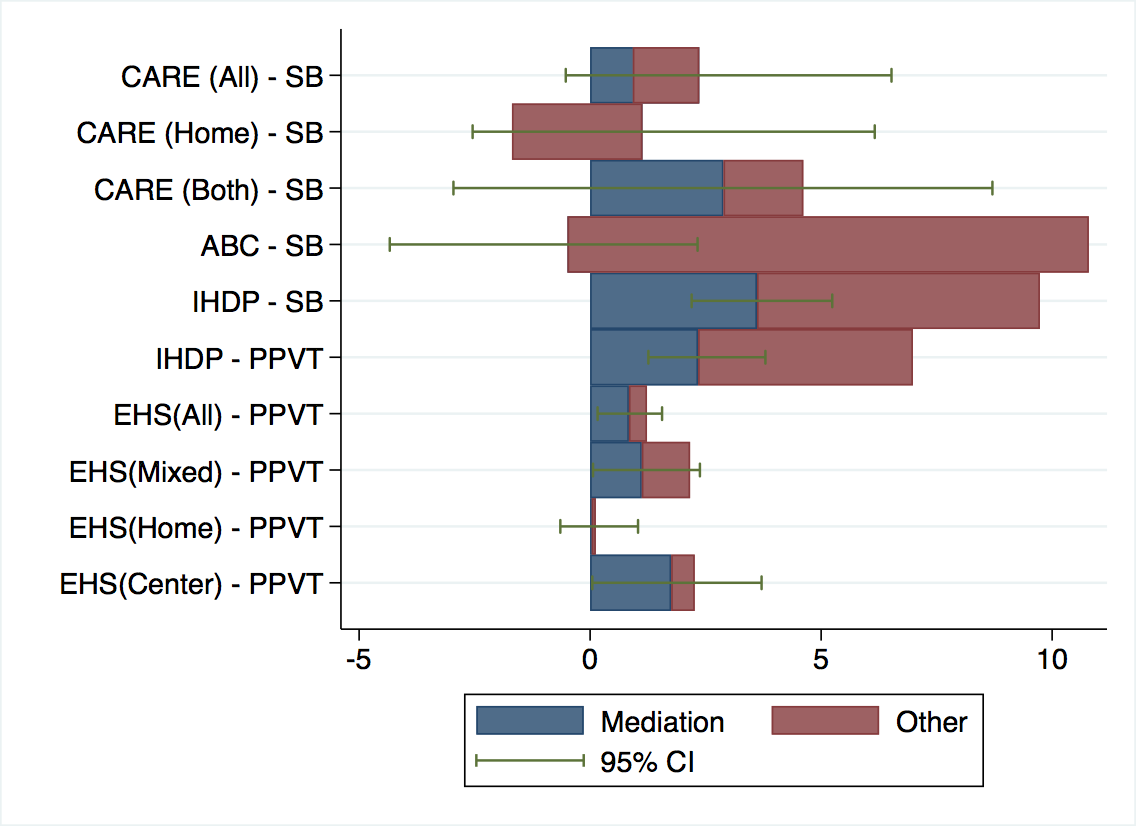
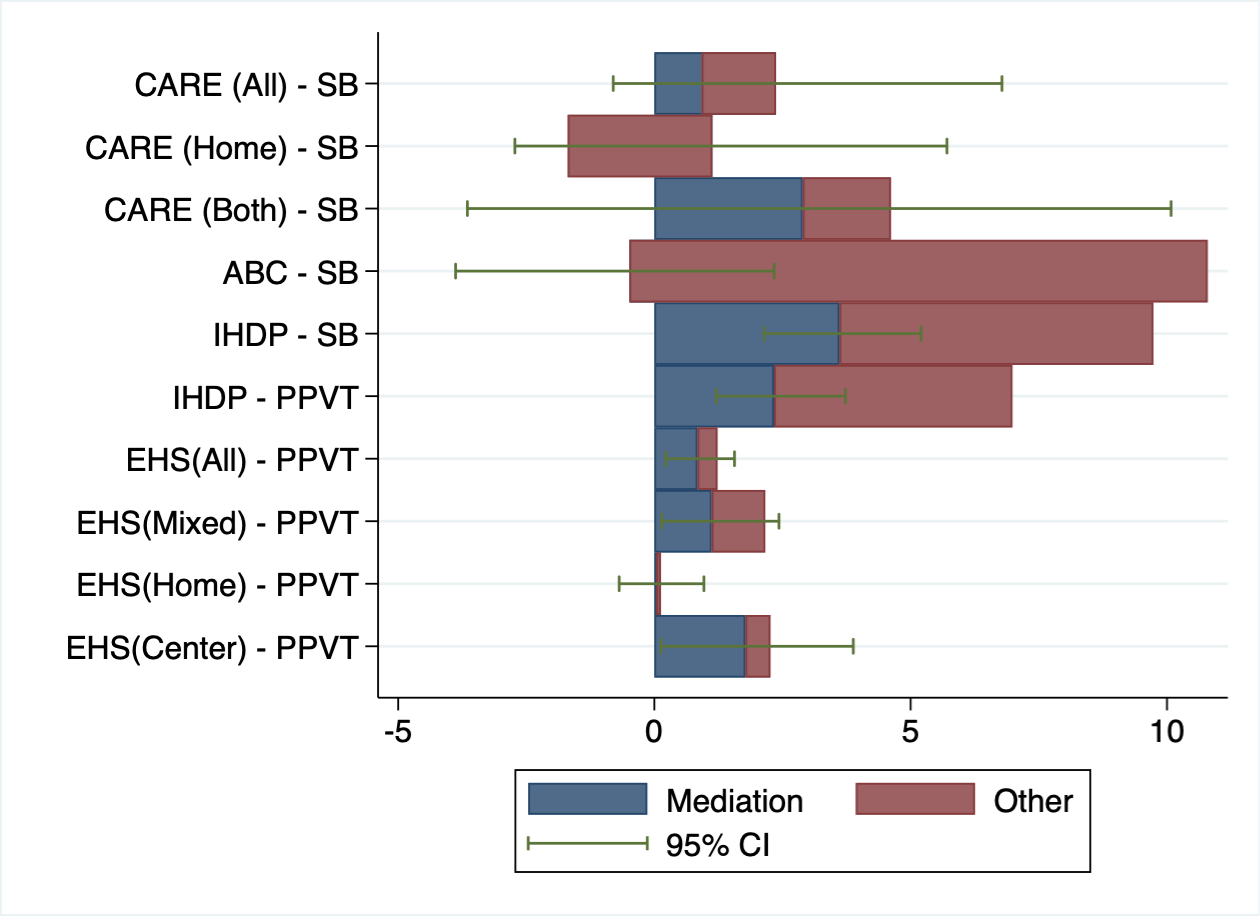
mediation AH update (need review)

diff --git a/out/mediation/ehs-interaction-ppvt.tex b/out/mediation/ehs-interaction-ppvt.tex
@@ -1,0 +1,15 @@
+\begin{tabular}{lcccccccccccc}
+\hline \noalign{\smallskip} & ehs\_ppvtrandom\_3coeff & ehs\_ppvtparenting\_3coeff & ehs\_ppvtinteraction\_3coeff & ehscenter\_ppvtrandom\_3coeff & ehscenter\_ppvtparenting\_3coeff & ehscenter\_ppvtinteraction\_3coeff & ehshome\_ppvtrandom\_3coeff & ehshome\_ppvtparenting\_3coeff & ehshome\_ppvtinteraction\_3coeff & ehsmixed\_ppvtrandom\_3coeff & ehsmixed\_ppvtparenting\_3coeff & ehsmixed\_ppvtinteraction\_3coeff\\
+\noalign{\smallskip}\hline \noalign{\smallskip}Total\_Score & 1.396* & 3.265*** & -0.554 & 2.019 & 2.338* & -0.444 & 0.716 & 4.549*** & -1.207 & 2.223 & 2.793** & 0.213\\
+ & \begin{footnotesize}(0.811)\end{footnotesize} & \begin{footnotesize}(0.622)\end{footnotesize} & \begin{footnotesize}(0.842)\end{footnotesize} & \begin{footnotesize}(1.550)\end{footnotesize} & \begin{footnotesize}(1.299)\end{footnotesize} & \begin{footnotesize}(1.655)\end{footnotesize} & \begin{footnotesize}(1.189)\end{footnotesize} & \begin{footnotesize}(0.929)\end{footnotesize} & \begin{footnotesize}(1.260)\end{footnotesize} & \begin{footnotesize}(1.573)\end{footnotesize} & \begin{footnotesize}(1.121)\end{footnotesize} & \begin{footnotesize}(1.584)\end{footnotesize}\\
+\noalign{\smallskip}Learning\_Stimulation & 1.578* & 2.845*** & -1.153 & 2.088 & 2.837** & -1.623 & 1.050 & 2.961*** & -1.422 & 2.284 & 2.769** & -0.153\\
+ & \begin{footnotesize}(0.817)\end{footnotesize} & \begin{footnotesize}(0.648)\end{footnotesize} & \begin{footnotesize}(0.880)\end{footnotesize} & \begin{footnotesize}(1.549)\end{footnotesize} & \begin{footnotesize}(1.243)\end{footnotesize} & \begin{footnotesize}(1.640)\end{footnotesize} & \begin{footnotesize}(1.221)\end{footnotesize} & \begin{footnotesize}(1.005)\end{footnotesize} & \begin{footnotesize}(1.369)\end{footnotesize} & \begin{footnotesize}(1.576)\end{footnotesize} & \begin{footnotesize}(1.187)\end{footnotesize} & \begin{footnotesize}(1.659)\end{footnotesize}\\
+\noalign{\smallskip}Development\_Materials & 1.537* & 2.133*** & -1.152 & 2.283 & 0.820 & -1.392 & 0.730 & 2.364** & -0.301 & 2.413 & 2.929** & -1.751\\
+ & \begin{footnotesize}(0.819)\end{footnotesize} & \begin{footnotesize}(0.623)\end{footnotesize} & \begin{footnotesize}(0.847)\end{footnotesize} & \begin{footnotesize}(1.572)\end{footnotesize} & \begin{footnotesize}(1.179)\end{footnotesize} & \begin{footnotesize}(1.550)\end{footnotesize} & \begin{footnotesize}(1.215)\end{footnotesize} & \begin{footnotesize}(0.948)\end{footnotesize} & \begin{footnotesize}(1.287)\end{footnotesize} & \begin{footnotesize}(1.588)\end{footnotesize} & \begin{footnotesize}(1.223)\end{footnotesize} & \begin{footnotesize}(1.710)\end{footnotesize}\\
+\noalign{\smallskip}Opportunities\_for\_Variety & 1.705** & 1.478** & -0.630 & 2.312 & 0.321 & -0.273 & 1.024 & 2.731*** & -0.790 & 2.470 & 1.048 & -0.533\\
+ & \begin{footnotesize}(0.818)\end{footnotesize} & \begin{footnotesize}(0.597)\end{footnotesize} & \begin{footnotesize}(0.822)\end{footnotesize} & \begin{footnotesize}(1.556)\end{footnotesize} & \begin{footnotesize}(1.223)\end{footnotesize} & \begin{footnotesize}(1.595)\end{footnotesize} & \begin{footnotesize}(1.208)\end{footnotesize} & \begin{footnotesize}(0.882)\end{footnotesize} & \begin{footnotesize}(1.237)\end{footnotesize} & \begin{footnotesize}(1.588)\end{footnotesize} & \begin{footnotesize}(1.097)\end{footnotesize} & \begin{footnotesize}(1.538)\end{footnotesize}\\
+\noalign{\smallskip}Lack\_of\_Hostility & 1.477* & 2.201*** & 0.172 & 2.009 & 1.395 & 2.396 & 0.526 & 3.073*** & -1.238 & 2.462 & 1.622 & -0.292\\
+ & \begin{footnotesize}(0.813)\end{footnotesize} & \begin{footnotesize}(0.734)\end{footnotesize} & \begin{footnotesize}(0.987)\end{footnotesize} & \begin{footnotesize}(1.538)\end{footnotesize} & \begin{footnotesize}(1.650)\end{footnotesize} & \begin{footnotesize}(1.988)\end{footnotesize} & \begin{footnotesize}(1.208)\end{footnotesize} & \begin{footnotesize}(0.997)\end{footnotesize} & \begin{footnotesize}(1.374)\end{footnotesize} & \begin{footnotesize}(1.591)\end{footnotesize} & \begin{footnotesize}(1.394)\end{footnotesize} & \begin{footnotesize}(2.042)\end{footnotesize}\\
+\noalign{\smallskip}Parental\_Warmth & 1.551* & 1.526** & 0.716 & 2.249 & 0.162 & 1.016 & 0.664 & 3.370*** & -0.487 & 2.390 & 1.106 & 1.632\\
+ & \begin{footnotesize}(0.813)\end{footnotesize} & \begin{footnotesize}(0.624)\end{footnotesize} & \begin{footnotesize}(0.854)\end{footnotesize} & \begin{footnotesize}(1.549)\end{footnotesize} & \begin{footnotesize}(1.232)\end{footnotesize} & \begin{footnotesize}(1.620)\end{footnotesize} & \begin{footnotesize}(1.190)\end{footnotesize} & \begin{footnotesize}(0.864)\end{footnotesize} & \begin{footnotesize}(1.181)\end{footnotesize} & \begin{footnotesize}(1.581)\end{footnotesize} & \begin{footnotesize}(1.236)\end{footnotesize} & \begin{footnotesize}(1.742)\end{footnotesize}\\
+\noalign{\smallskip}\hline\end{tabular}\\

diff --git a/out/mediation/interaction.tex b/out/mediation/interaction.tex
@@ -1,23 +1,23 @@
 \begin{tabular}{lccc}
-\hline \noalign{\smallskip} & theta & R & theta_R\\
-\noalign{\smallskip}\hline \noalign{\smallskip}EHS(Center) - PPVT & 7.557** & 43.009 & 4.350\\
- & \begin{footnotesize}(3.004)\end{footnotesize} & \begin{footnotesize}(46.764)\end{footnotesize} & \begin{footnotesize}(5.707)\end{footnotesize}\\
-\noalign{\smallskip}EHS(Home) - PPVT & 6.473* & -36.378 & 1.058\\
- & \begin{footnotesize}(3.525)\end{footnotesize} & \begin{footnotesize}(28.989)\end{footnotesize} & \begin{footnotesize}(5.361)\end{footnotesize}\\
-\noalign{\smallskip}EHS(Mixed) - PPVT & 8.041*** & -8.597 & -1.121\\
- & \begin{footnotesize}(2.575)\end{footnotesize} & \begin{footnotesize}(37.440)\end{footnotesize} & \begin{footnotesize}(3.401)\end{footnotesize}\\
-\noalign{\smallskip}EHS(All) - PPVT & 7.385*** & 0.114 & 1.796\\
- & \begin{footnotesize}(1.716)\end{footnotesize} & \begin{footnotesize}(21.946)\end{footnotesize} & \begin{footnotesize}(2.713)\end{footnotesize}\\
+\hline \noalign{\smallskip} & theta & R & theta\_R\\
+\noalign{\smallskip}\hline \noalign{\smallskip}EHS(Center) - PPVT & 7.634** & 43.100 & 4.164\\
+ & \begin{footnotesize}(3.016)\end{footnotesize} & \begin{footnotesize}(46.687)\end{footnotesize} & \begin{footnotesize}(5.656)\end{footnotesize}\\
+\noalign{\smallskip}EHS(Home) - PPVT & 6.524* & -36.507 & 1.060\\
+ & \begin{footnotesize}(3.560)\end{footnotesize} & \begin{footnotesize}(29.004)\end{footnotesize} & \begin{footnotesize}(5.426)\end{footnotesize}\\
+\noalign{\smallskip}EHS(Mixed) - PPVT & 8.040*** & -8.582 & -1.140\\
+ & \begin{footnotesize}(2.589)\end{footnotesize} & \begin{footnotesize}(37.462)\end{footnotesize} & \begin{footnotesize}(3.408)\end{footnotesize}\\
+\noalign{\smallskip}EHS(All) - PPVT & 7.390*** & 0.307 & 1.799\\
+ & \begin{footnotesize}(1.716)\end{footnotesize} & \begin{footnotesize}(21.943)\end{footnotesize} & \begin{footnotesize}(2.715)\end{footnotesize}\\
 \noalign{\smallskip}IHDP - PPVT & 10.013*** & -25.513 & -5.061\\
  & \begin{footnotesize}(2.556)\end{footnotesize} & \begin{footnotesize}(16.264)\end{footnotesize} & \begin{footnotesize}(3.102)\end{footnotesize}\\
 \noalign{\smallskip}IHDP - SB & 10.921*** & -20.358 & 0.926\\
  & \begin{footnotesize}(2.022)\end{footnotesize} & \begin{footnotesize}(17.291)\end{footnotesize} & \begin{footnotesize}(3.117)\end{footnotesize}\\
-\noalign{\smallskip}ABC - SB & 3.232 & 38.759 & 7.447*\\
- & \begin{footnotesize}(2.464)\end{footnotesize} & \begin{footnotesize}(38.772)\end{footnotesize} & \begin{footnotesize}(3.994)\end{footnotesize}\\
-\noalign{\smallskip}CARE (Both) - SB & 4.409* & -14.226 & -6.218\\
- & \begin{footnotesize}(2.500)\end{footnotesize} & \begin{footnotesize}(103.926)\end{footnotesize} & \begin{footnotesize}(4.094)\end{footnotesize}\\
-\noalign{\smallskip}CARE (Home) - SB & 4.504* & 55.953 & -0.084\\
- & \begin{footnotesize}(2.609)\end{footnotesize} & \begin{footnotesize}(110.099)\end{footnotesize} & \begin{footnotesize}(3.310)\end{footnotesize}\\
-\noalign{\smallskip}CARE (All) - SB & 4.301* & 27.940 & 2.604\\
- & \begin{footnotesize}(2.590)\end{footnotesize} & \begin{footnotesize}(102.798)\end{footnotesize} & \begin{footnotesize}(3.485)\end{footnotesize}\\
+\noalign{\smallskip}ABC - SB & 3.179 & 39.080 & 7.505*\\
+ & \begin{footnotesize}(2.481)\end{footnotesize} & \begin{footnotesize}(38.798)\end{footnotesize} & \begin{footnotesize}(4.012)\end{footnotesize}\\
+\noalign{\smallskip}CARE (Both) - SB & 4.375* & -15.084 & -6.241\\
+ & \begin{footnotesize}(2.487)\end{footnotesize} & \begin{footnotesize}(103.795)\end{footnotesize} & \begin{footnotesize}(4.081)\end{footnotesize}\\
+\noalign{\smallskip}CARE (Home) - SB & 4.453* & 55.109 & -0.026\\
+ & \begin{footnotesize}(2.599)\end{footnotesize} & \begin{footnotesize}(110.068)\end{footnotesize} & \begin{footnotesize}(3.305)\end{footnotesize}\\
+\noalign{\smallskip}CARE (All) - SB & 4.319* & 28.313 & 2.627\\
+ & \begin{footnotesize}(2.593)\end{footnotesize} & \begin{footnotesize}(102.796)\end{footnotesize} & \begin{footnotesize}(3.493)\end{footnotesize}\\
 \noalign{\smallskip}\hline\end{tabular}\\

diff --git a/out/mediation/ihdp-interaction-ppvt.tex b/out/mediation/ihdp-interaction-ppvt.tex
@@ -1,0 +1,15 @@
+\begin{tabular}{lccccccccc}
+\hline \noalign{\smallskip} & ihdp\_ppvtrandom\_3coeff & ihdp\_ppvtparenting\_3coeff & ihdp\_ppvtinteraction\_3coeff & ihdphigh\_ppvtrandom\_3coeff & ihdphigh\_ppvtparenting\_3coeff & ihdphigh\_ppvtinteraction\_3coeff & ihdplow\_ppvtrandom\_3coeff & ihdplow\_ppvtparenting\_3coeff & ihdplow\_ppvtinteraction\_3coeff\\
+\noalign{\smallskip}\hline \noalign{\smallskip}Total\_Score & 6.285*** & 5.778*** & -2.091* & 9.448*** & 5.422*** & -2.425 & 4.464*** & 6.023*** & -1.964\\
+ & \begin{footnotesize}(1.026)\end{footnotesize} & \begin{footnotesize}(0.790)\end{footnotesize} & \begin{footnotesize}(1.074)\end{footnotesize} & \begin{footnotesize}(1.673)\end{footnotesize} & \begin{footnotesize}(1.241)\end{footnotesize} & \begin{footnotesize}(1.707)\end{footnotesize} & \begin{footnotesize}(1.318)\end{footnotesize} & \begin{footnotesize}(1.031)\end{footnotesize} & \begin{footnotesize}(1.386)\end{footnotesize}\\
+\noalign{\smallskip}Learning\_Stimulation & 6.665*** & 4.040*** & -1.357 & 9.644*** & 2.793** & -0.572 & 5.000*** & 4.769*** & -1.985\\
+ & \begin{footnotesize}(1.037)\end{footnotesize} & \begin{footnotesize}(0.763)\end{footnotesize} & \begin{footnotesize}(1.103)\end{footnotesize} & \begin{footnotesize}(1.711)\end{footnotesize} & \begin{footnotesize}(1.298)\end{footnotesize} & \begin{footnotesize}(1.806)\end{footnotesize} & \begin{footnotesize}(1.323)\end{footnotesize} & \begin{footnotesize}(0.947)\end{footnotesize} & \begin{footnotesize}(1.401)\end{footnotesize}\\
+\noalign{\smallskip}Development\_Materials & 6.347*** & 5.843*** & -2.020* & 9.357*** & 6.213*** & -2.262 & 4.629*** & 5.589*** & -1.899\\
+ & \begin{footnotesize}(1.017)\end{footnotesize} & \begin{footnotesize}(0.750)\end{footnotesize} & \begin{footnotesize}(1.058)\end{footnotesize} & \begin{footnotesize}(1.632)\end{footnotesize} & \begin{footnotesize}(1.143)\end{footnotesize} & \begin{footnotesize}(1.693)\end{footnotesize} & \begin{footnotesize}(1.319)\end{footnotesize} & \begin{footnotesize}(0.998)\end{footnotesize} & \begin{footnotesize}(1.360)\end{footnotesize}\\
+\noalign{\smallskip}Opportunities\_for\_Variety & 6.894*** & 3.581*** & -0.932 & 10.169*** & 3.507*** & -1.562 & 5.072*** & 3.881*** & -0.870\\
+ & \begin{footnotesize}(1.030)\end{footnotesize} & \begin{footnotesize}(0.753)\end{footnotesize} & \begin{footnotesize}(1.063)\end{footnotesize} & \begin{footnotesize}(1.688)\end{footnotesize} & \begin{footnotesize}(1.091)\end{footnotesize} & \begin{footnotesize}(1.709)\end{footnotesize} & \begin{footnotesize}(1.327)\end{footnotesize} & \begin{footnotesize}(1.058)\end{footnotesize} & \begin{footnotesize}(1.398)\end{footnotesize}\\
+\noalign{\smallskip}Lack\_of\_Hostility & 7.142*** & 2.010*** & -2.305** & 10.216*** & 2.576** & -3.446* & 5.372*** & 1.585* & -1.674\\
+ & \begin{footnotesize}(1.047)\end{footnotesize} & \begin{footnotesize}(0.713)\end{footnotesize} & \begin{footnotesize}(1.074)\end{footnotesize} & \begin{footnotesize}(1.681)\end{footnotesize} & \begin{footnotesize}(1.124)\end{footnotesize} & \begin{footnotesize}(1.836)\end{footnotesize} & \begin{footnotesize}(1.359)\end{footnotesize} & \begin{footnotesize}(0.941)\end{footnotesize} & \begin{footnotesize}(1.346)\end{footnotesize}\\
+\noalign{\smallskip}Parental\_Warmth & 7.281*** & 1.025 & -0.165 & 10.335*** & 1.040 & -0.735 & 5.457*** & 0.870 & 0.501\\
+ & \begin{footnotesize}(1.041)\end{footnotesize} & \begin{footnotesize}(0.723)\end{footnotesize} & \begin{footnotesize}(1.063)\end{footnotesize} & \begin{footnotesize}(1.680)\end{footnotesize} & \begin{footnotesize}(1.119)\end{footnotesize} & \begin{footnotesize}(1.621)\end{footnotesize} & \begin{footnotesize}(1.347)\end{footnotesize} & \begin{footnotesize}(0.956)\end{footnotesize} & \begin{footnotesize}(1.419)\end{footnotesize}\\
+\noalign{\smallskip}\hline\end{tabular}\\

diff --git a/out/mediation/ihdp-interaction-sb.tex b/out/mediation/ihdp-interaction-sb.tex
@@ -1,0 +1,15 @@
+\begin{tabular}{lccccccccc}
+\hline \noalign{\smallskip} & ihdp\_sbrandom\_3coeff & ihdp\_sbparenting\_3coeff & ihdp\_sbinteraction\_3coeff & ihdphigh\_sbrandom\_3coeff & ihdphigh\_sbparenting\_3coeff & ihdphigh\_sbinteraction\_3coeff & ihdplow\_sbrandom\_3coeff & ihdplow\_sbparenting\_3coeff & ihdplow\_sbinteraction\_3coeff\\
+\noalign{\smallskip}\hline \noalign{\smallskip}Total\_Score & 8.221*** & 8.325*** & -1.866* & 11.778*** & 7.546*** & -1.137 & 6.074*** & 8.941*** & -2.508*\\
+ & \begin{footnotesize}(1.042)\end{footnotesize} & \begin{footnotesize}(0.755)\end{footnotesize} & \begin{footnotesize}(1.052)\end{footnotesize} & \begin{footnotesize}(1.688)\end{footnotesize} & \begin{footnotesize}(1.173)\end{footnotesize} & \begin{footnotesize}(1.669)\end{footnotesize} & \begin{footnotesize}(1.327)\end{footnotesize} & \begin{footnotesize}(0.978)\end{footnotesize} & \begin{footnotesize}(1.345)\end{footnotesize}\\
+\noalign{\smallskip}Learning\_Stimulation & 8.819*** & 6.748*** & -1.589 & 12.208*** & 5.499*** & -0.476 & 6.842*** & 7.558*** & -2.597**\\
+ & \begin{footnotesize}(1.052)\end{footnotesize} & \begin{footnotesize}(0.706)\end{footnotesize} & \begin{footnotesize}(1.053)\end{footnotesize} & \begin{footnotesize}(1.743)\end{footnotesize} & \begin{footnotesize}(1.196)\end{footnotesize} & \begin{footnotesize}(1.759)\end{footnotesize} & \begin{footnotesize}(1.325)\end{footnotesize} & \begin{footnotesize}(0.869)\end{footnotesize} & \begin{footnotesize}(1.310)\end{footnotesize}\\
+\noalign{\smallskip}Development\_Materials & 8.558*** & 7.737*** & -1.516 & 12.364*** & 7.441*** & -1.938 & 6.337*** & 8.126*** & -1.564\\
+ & \begin{footnotesize}(1.046)\end{footnotesize} & \begin{footnotesize}(0.744)\end{footnotesize} & \begin{footnotesize}(1.062)\end{footnotesize} & \begin{footnotesize}(1.681)\end{footnotesize} & \begin{footnotesize}(1.125)\end{footnotesize} & \begin{footnotesize}(1.719)\end{footnotesize} & \begin{footnotesize}(1.336)\end{footnotesize} & \begin{footnotesize}(0.979)\end{footnotesize} & \begin{footnotesize}(1.345)\end{footnotesize}\\
+\noalign{\smallskip}Opportunities\_for\_Variety & 9.579*** & 5.558*** & -1.398 & 13.119*** & 5.003*** & -0.223 & 7.361*** & 6.304*** & -2.309*\\
+ & \begin{footnotesize}(1.071)\end{footnotesize} & \begin{footnotesize}(0.748)\end{footnotesize} & \begin{footnotesize}(1.076)\end{footnotesize} & \begin{footnotesize}(1.728)\end{footnotesize} & \begin{footnotesize}(1.069)\end{footnotesize} & \begin{footnotesize}(1.740)\end{footnotesize} & \begin{footnotesize}(1.374)\end{footnotesize} & \begin{footnotesize}(1.039)\end{footnotesize} & \begin{footnotesize}(1.397)\end{footnotesize}\\
+\noalign{\smallskip}Lack\_of\_Hostility & 10.128*** & 1.331* & -0.716 & 13.578*** & 1.843 & 0.985 & 8.157*** & 0.824 & -1.227\\
+ & \begin{footnotesize}(1.117)\end{footnotesize} & \begin{footnotesize}(0.730)\end{footnotesize} & \begin{footnotesize}(1.137)\end{footnotesize} & \begin{footnotesize}(1.772)\end{footnotesize} & \begin{footnotesize}(1.138)\end{footnotesize} & \begin{footnotesize}(1.893)\end{footnotesize} & \begin{footnotesize}(1.441)\end{footnotesize} & \begin{footnotesize}(0.954)\end{footnotesize} & \begin{footnotesize}(1.427)\end{footnotesize}\\
+\noalign{\smallskip}Parental\_Warmth & 10.297*** & 2.018*** & -0.926 & 13.992*** & 1.947* & 0.250 & 8.121*** & 1.938** & -1.415\\
+ & \begin{footnotesize}(1.102)\end{footnotesize} & \begin{footnotesize}(0.735)\end{footnotesize} & \begin{footnotesize}(1.092)\end{footnotesize} & \begin{footnotesize}(1.759)\end{footnotesize} & \begin{footnotesize}(1.115)\end{footnotesize} & \begin{footnotesize}(1.654)\end{footnotesize} & \begin{footnotesize}(1.416)\end{footnotesize} & \begin{footnotesize}(0.971)\end{footnotesize} & \begin{footnotesize}(1.439)\end{footnotesize}\\
+\noalign{\smallskip}\hline\end{tabular}\\

diff --git a/out/mediation/care-interaction-sb.tex b/out/mediation/care-interaction-sb.tex
@@ -1,0 +1,15 @@
+\begin{tabular}{lccccccccc}
+\hline \noalign{\smallskip} & care\_sbrandom\_3coeff & care\_sbparenting\_3coeff & care\_sbinteraction\_3coeff & careboth\_sbrandom\_3coeff & careboth\_sbparenting\_3coeff & careboth\_sbinteraction\_3coeff & carehome\_sbrandom\_3coeff & carehome\_sbparenting\_3coeff & carehome\_sbinteraction\_3coeff\\
+\noalign{\smallskip}\hline \noalign{\smallskip}Total\_Score & 2.573 & 4.446 & 0.511 & 10.735** & 4.158 & -6.784 & -1.635 & 4.330 & 0.695\\
+ & \begin{footnotesize}(3.867)\end{footnotesize} & \begin{footnotesize}(2.656)\end{footnotesize} & \begin{footnotesize}(3.555)\end{footnotesize} & \begin{footnotesize}(4.664)\end{footnotesize} & \begin{footnotesize}(2.556)\end{footnotesize} & \begin{footnotesize}(5.723)\end{footnotesize} & \begin{footnotesize}(4.499)\end{footnotesize} & \begin{footnotesize}(2.931)\end{footnotesize} & \begin{footnotesize}(4.192)\end{footnotesize}\\
+\noalign{\smallskip}Learning\_Stimulation & 2.561 & 5.204** & 0.591 & 10.945** & 4.495* & -7.658 & -1.211 & 5.060* & 0.445\\
+ & \begin{footnotesize}(3.718)\end{footnotesize} & \begin{footnotesize}(2.547)\end{footnotesize} & \begin{footnotesize}(3.384)\end{footnotesize} & \begin{footnotesize}(4.572)\end{footnotesize} & \begin{footnotesize}(2.448)\end{footnotesize} & \begin{footnotesize}(5.551)\end{footnotesize} & \begin{footnotesize}(4.363)\end{footnotesize} & \begin{footnotesize}(2.824)\end{footnotesize} & \begin{footnotesize}(4.110)\end{footnotesize}\\
+\noalign{\smallskip}Development\_Materials & 4.232 & 1.318 & 2.491 & 9.735* & 2.586 & 6.250 & -0.656 & 1.251 & 1.356\\
+ & \begin{footnotesize}(4.097)\end{footnotesize} & \begin{footnotesize}(2.476)\end{footnotesize} & \begin{footnotesize}(3.858)\end{footnotesize} & \begin{footnotesize}(4.741)\end{footnotesize} & \begin{footnotesize}(2.346)\end{footnotesize} & \begin{footnotesize}(9.145)\end{footnotesize} & \begin{footnotesize}(4.791)\end{footnotesize} & \begin{footnotesize}(2.914)\end{footnotesize} & \begin{footnotesize}(4.775)\end{footnotesize}\\
+\noalign{\smallskip}Opportunities\_for\_Variety & 5.021 & -0.019 & 2.981 & 12.613*** & -0.525 & 1.907 & -0.593 & -0.294 & 4.260\\
+ & \begin{footnotesize}(4.049)\end{footnotesize} & \begin{footnotesize}(3.223)\end{footnotesize} & \begin{footnotesize}(3.960)\end{footnotesize} & \begin{footnotesize}(4.270)\end{footnotesize} & \begin{footnotesize}(2.898)\end{footnotesize} & \begin{footnotesize}(4.692)\end{footnotesize} & \begin{footnotesize}(4.739)\end{footnotesize} & \begin{footnotesize}(3.710)\end{footnotesize} & \begin{footnotesize}(4.616)\end{footnotesize}\\
+\noalign{\smallskip}Lack\_of\_Hostility & 5.240 & -4.041 & 2.787 & 13.595*** & -6.051* & 5.800 & -0.407 & -3.929 & 3.476\\
+ & \begin{footnotesize}(3.937)\end{footnotesize} & \begin{footnotesize}(3.934)\end{footnotesize} & \begin{footnotesize}(4.637)\end{footnotesize} & \begin{footnotesize}(3.905)\end{footnotesize} & \begin{footnotesize}(3.183)\end{footnotesize} & \begin{footnotesize}(4.434)\end{footnotesize} & \begin{footnotesize}(4.642)\end{footnotesize} & \begin{footnotesize}(3.993)\end{footnotesize} & \begin{footnotesize}(5.055)\end{footnotesize}\\
+\noalign{\smallskip}Parental\_Warmth & 4.981 & 3.620 & -1.272 & 12.757*** & 2.833 & -4.779 & 0.147 & 3.718 & 0.226\\
+ & \begin{footnotesize}(3.902)\end{footnotesize} & \begin{footnotesize}(3.382)\end{footnotesize} & \begin{footnotesize}(4.111)\end{footnotesize} & \begin{footnotesize}(4.102)\end{footnotesize} & \begin{footnotesize}(2.759)\end{footnotesize} & \begin{footnotesize}(4.205)\end{footnotesize} & \begin{footnotesize}(4.450)\end{footnotesize} & \begin{footnotesize}(3.389)\end{footnotesize} & \begin{footnotesize}(4.407)\end{footnotesize}\\
+\noalign{\smallskip}\hline\end{tabular}\\

diff --git a/out/mediation/interaction2.tex b/out/mediation/interaction2.tex
@@ -1,0 +1,23 @@
+\begin{tabular}{lccc}
+\hline \noalign{\smallskip} & theta & R & theta\_R\\
+\noalign{\smallskip}\hline \noalign{\smallskip}EHS(Center) - PPVT & 7.511*** & -0.371 & 4.481\\
+ & \begin{footnotesize}(2.915)\end{footnotesize} & \begin{footnotesize}(1.921)\end{footnotesize} & \begin{footnotesize}(4.758)\end{footnotesize}\\
+\noalign{\smallskip}EHS(Home) - PPVT & 5.795* & -0.822 & 2.637\\
+ & \begin{footnotesize}(3.371)\end{footnotesize} & \begin{footnotesize}(1.523)\end{footnotesize} & \begin{footnotesize}(4.284)\end{footnotesize}\\
+\noalign{\smallskip}EHS(Mixed) - PPVT & 7.171*** & 1.234 & 0.695\\
+ & \begin{footnotesize}(2.195)\end{footnotesize} & \begin{footnotesize}(1.602)\end{footnotesize} & \begin{footnotesize}(2.859)\end{footnotesize}\\
+\noalign{\smallskip}EHS(All) - PPVT & 7.156*** & -0.115 & 2.182\\
+ & \begin{footnotesize}(1.606)\end{footnotesize} & \begin{footnotesize}(0.938)\end{footnotesize} & \begin{footnotesize}(2.248)\end{footnotesize}\\
+\noalign{\smallskip}IHDP - PPVT & 8.656*** & 5.847*** & -2.523\\
+ & \begin{footnotesize}(1.772)\end{footnotesize} & \begin{footnotesize}(1.073)\end{footnotesize} & \begin{footnotesize}(1.534)\end{footnotesize}\\
+\noalign{\smallskip}IHDP - SB & 11.411*** & 6.998*** & 0.121\\
+ & \begin{footnotesize}(1.628)\end{footnotesize} & \begin{footnotesize}(1.191)\end{footnotesize} & \begin{footnotesize}(1.722)\end{footnotesize}\\
+\noalign{\smallskip}ABC - SB & 6.082*** & 11.445*** & 3.125\\
+ & \begin{footnotesize}(2.177)\end{footnotesize} & \begin{footnotesize}(2.284)\end{footnotesize} & \begin{footnotesize}(3.069)\end{footnotesize}\\
+\noalign{\smallskip}CARE (Both) - SB & 3.907** & 4.025 & -1.150\\
+ & \begin{footnotesize}(1.944)\end{footnotesize} & \begin{footnotesize}(3.930)\end{footnotesize} & \begin{footnotesize}(3.821)\end{footnotesize}\\
+\noalign{\smallskip}CARE (Home) - SB & 3.795* & -1.673 & 0.406\\
+ & \begin{footnotesize}(2.109)\end{footnotesize} & \begin{footnotesize}(3.060)\end{footnotesize} & \begin{footnotesize}(3.021)\end{footnotesize}\\
+\noalign{\smallskip}CARE (All) - SB & 3.555* & -0.042 & 2.386\\
+ & \begin{footnotesize}(1.987)\end{footnotesize} & \begin{footnotesize}(2.843)\end{footnotesize} & \begin{footnotesize}(2.769)\end{footnotesize}\\
+\noalign{\smallskip}\hline\end{tabular}\\

diff --git a/out/mediation/abc-interaction-sb.tex b/out/mediation/abc-interaction-sb.tex
@@ -1,0 +1,15 @@
+\begin{tabular}{lccc}
+\hline \noalign{\smallskip} & abc\_sbrandom\_3coeff & abc\_sbparenting\_3coeff & abc\_sbinteraction\_3coeff\\
+\noalign{\smallskip}\hline \noalign{\smallskip}Total\_Score & 14.955*** & 3.342* & 3.501\\
+ & \begin{footnotesize}(2.634)\end{footnotesize} & \begin{footnotesize}(1.949)\end{footnotesize} & \begin{footnotesize}(2.568)\end{footnotesize}\\
+\noalign{\smallskip}Learning\_Stimulation & 14.185*** & 3.942** & 3.104\\
+ & \begin{footnotesize}(2.635)\end{footnotesize} & \begin{footnotesize}(1.923)\end{footnotesize} & \begin{footnotesize}(2.620)\end{footnotesize}\\
+\noalign{\smallskip}Development\_Materials & 15.867*** & 4.531** & 1.517\\
+ & \begin{footnotesize}(2.676)\end{footnotesize} & \begin{footnotesize}(2.080)\end{footnotesize} & \begin{footnotesize}(2.643)\end{footnotesize}\\
+\noalign{\smallskip}Opportunities\_for\_Variety & 15.384*** & -1.893 & 7.498***\\
+ & \begin{footnotesize}(2.741)\end{footnotesize} & \begin{footnotesize}(1.935)\end{footnotesize} & \begin{footnotesize}(2.738)\end{footnotesize}\\
+\noalign{\smallskip}Lack\_of\_Hostility & 14.939*** & 0.691 & 3.092\\
+ & \begin{footnotesize}(2.806)\end{footnotesize} & \begin{footnotesize}(1.977)\end{footnotesize} & \begin{footnotesize}(2.784)\end{footnotesize}\\
+\noalign{\smallskip}Parental\_Warmth & 15.188*** & 0.753 & 1.369\\
+ & \begin{footnotesize}(2.846)\end{footnotesize} & \begin{footnotesize}(2.120)\end{footnotesize} & \begin{footnotesize}(2.841)\end{footnotesize}\\
+\noalign{\smallskip}\hline\end{tabular}\\
